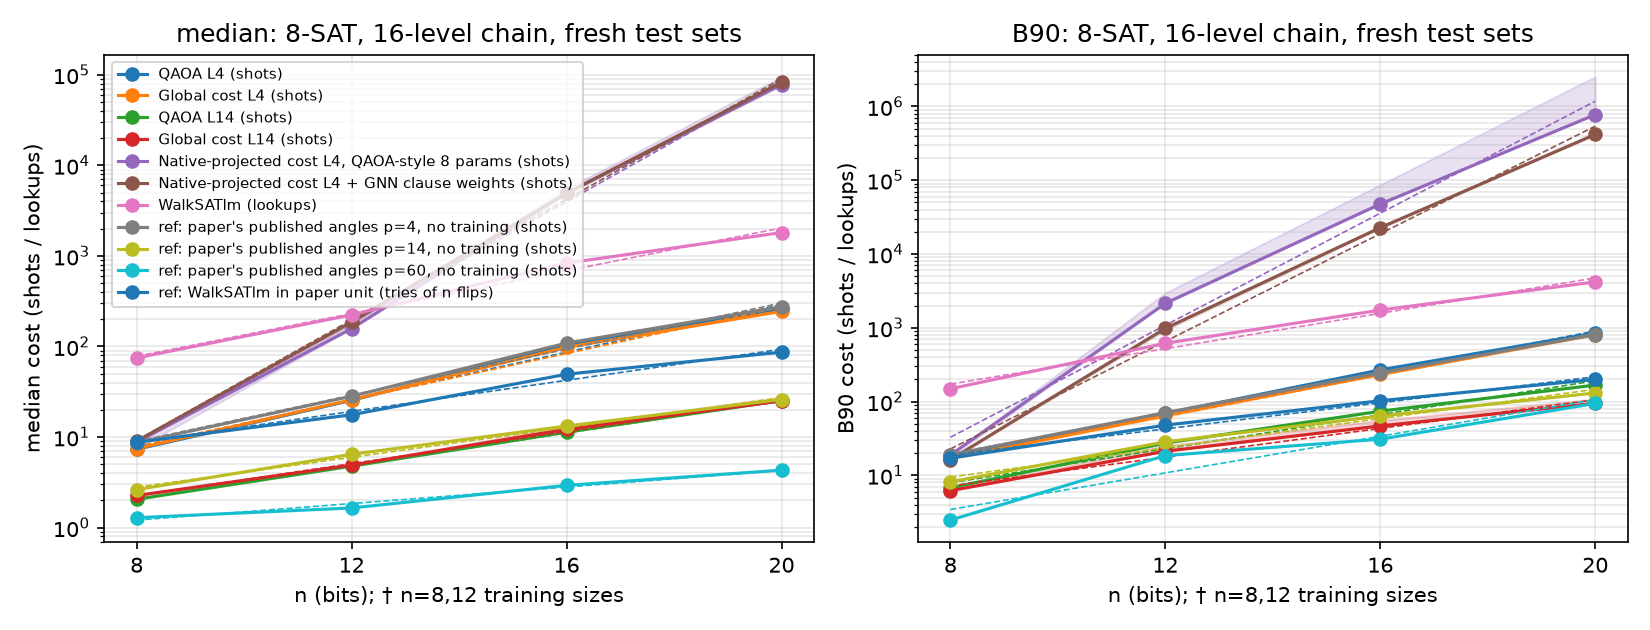
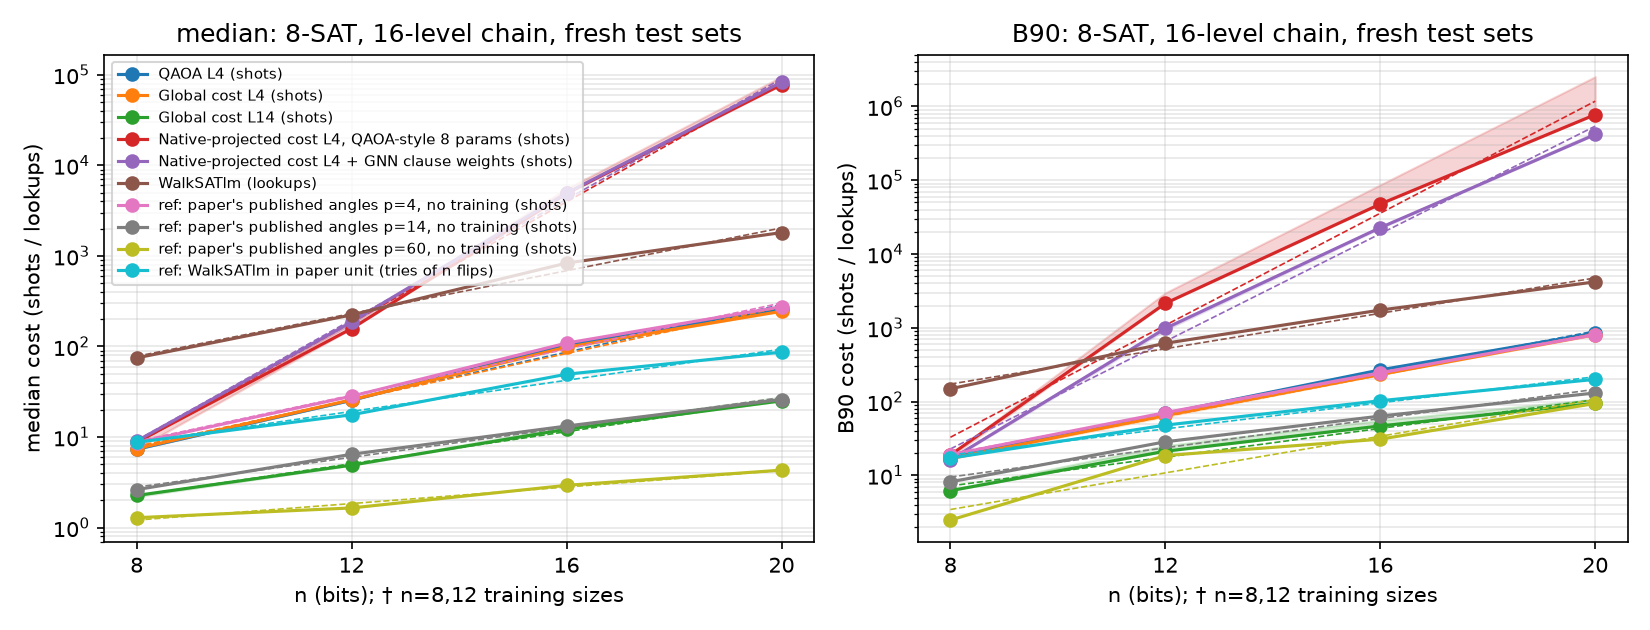
clean16_8sat: use paper p=14 angles as sole L=14 QAOA row in table and plot

diff --git a/oct_explore/clean16_8sat/report.py b/oct_explore/clean16_8sat/report.py
@@ -15,7 +15,7 @@ def load(pref):
         if "val" not in T:   # gcost (gnnw): val n=12 (200) summary of the early-stopped checkpoint used for testing
             h = dict((it, v) for it, v in J["hist"])[J["best_it"]]; out[s]["valmb"] = (h["median_inv_p"], h["B90_inv_p"])
     return out
-M = {"QAOA L4 (shots)": load("Q"), "Global cost L4 (shots)": load("G"), "QAOA L14 (shots)": load("Q14"), "Global cost L14 (shots)": load("G14"), "Native-projected cost L4, QAOA-style 8 params (shots)": load("QC"), "Native-projected cost L4 + GNN clause weights (shots)": load("GC")}
+M = {"QAOA L4 (shots)": load("Q"), "Global cost L4 (shots)": load("G"), "Global cost L14 (shots)": load("G14"), "Native-projected cost L4, QAOA-style 8 params (shots)": load("QC"), "Native-projected cost L4 + GNN clause weights (shots)": load("GC")}
 W = {}
 for n in NS_:
     f = f"{CM.RES}/W_n{n}.json"

diff --git a/oct_explore/results/CLEAN_SCALING_16LEVEL_8SAT.md b/oct_explore/results/CLEAN_SCALING_16LEVEL_8SAT.md
@@ -10,7 +10,6 @@ Cells: winner (best validation score S=(ln med+ln B90)/2 on val n=12) value, wit
 |---|---|---|---|---|
 | QAOA L4 (shots) | **7.33** [7.33–7.33] | **25.5** [25.5–25.5] | **105** [105–105] | **257** [257–257] |
 | Global cost L4 (shots) | **7.46** [7.41–7.46] | **25.8** [25.6–25.8] | **98.1** [97.3–98.1] | **245** [244–250] |
-| QAOA L14 (shots) | **2.06** [2.05–2.06] | **4.77** [4.76–4.77] | **11.3** [11.3–11.4] | **25.3** [25.3–25.3] |
 | Global cost L14 (shots) | **2.26** [2.2–2.28] | **4.9** [4.87–4.94] | **12.2** [12.2–13.1] | **25.1** [25.1–27.6] |
 | Native-projected cost L4, QAOA-style 8 params (shots) | **8.78** [7.44–8.78] | **158** [158–180] | **4.9e+03** [4.9e+03–5.53e+03] | **7.79e+04** [7.79e+04–9.54e+04] |
 | Native-projected cost L4 + GNN clause weights (shots) | **9.04** [8.98–9.04] | **186** [178–195] | **4.94e+03** [4.84e+03–5e+03] | **8.28e+04** [7.7e+04–8.28e+04] |
@@ -24,7 +23,6 @@ Cells: winner (best validation score S=(ln med+ln B90)/2 on val n=12) value, wit
 |---|---|---|---|---|
 | QAOA L4 (shots) | **17.7** [17.7–17.7] | **68.9** [68.9–68.9] | **269** [269–269] | **850** [850–850] |
 | Global cost L4 (shots) | **16.9** [16.7–17.3] | **64.8** [62.3–65.1] | **233** [233–242] | **809** [796–825] |
-| QAOA L14 (shots) | **6.77** [6.75–6.77] | **27.4** [27.2–27.4] | **74** [73.8–74] | **167** [167–171] |
 | Global cost L14 (shots) | **6.19** [6.19–6.39] | **21.2** [21.2–25.3] | **46.7** [46.7–55.5] | **94.7** [94.7–108] |
 | Native-projected cost L4, QAOA-style 8 params (shots) | **18.9** [17.8–18.9] | **2.14e+03** [2.14e+03–2.98e+03] | **4.76e+04** [4.76e+04–8.66e+04] | **7.75e+05** [7.75e+05–2.53e+06] |
 | Native-projected cost L4 + GNN clause weights (shots) | **16.3** [16.2–16.9] | **982** [932–1.03e+03] | **2.28e+04** [2.24e+04–2.3e+04] | **4.17e+05** [4.17e+05–4.45e+05] |
@@ -42,30 +40,27 @@ Cells: winner (best validation score S=(ln med+ln B90)/2 on val n=12) value, wit
 | QAOA L4 (shots) | B90 | **1.383** | [1.338, 1.426] | 1.383–1.383 | 0.468 | 1.38 |
 | Global cost L4 (shots) | median | **1.343** | [1.327, 1.374] | 1.343–1.346 | 0.426 | 0.743 |
 | Global cost L4 (shots) | B90 | **1.380** | [1.332, 1.414] | 1.378–1.384 | 0.465 | 1.31 |
-| QAOA L14 (shots) | median | **1.233** | [1.214, 1.269] | 1.233–1.234 | 0.303 | 0.386 |
-| QAOA L14 (shots) | B90 | **1.304** | [1.218, 1.396] | 1.304–1.306 | 0.383 | 0.947 |
 | Global cost L14 (shots) | median | **1.225** | [1.201, 1.246] | 1.225–1.237 | 0.293 | 0.444 |
-| Global cost L14 (shots) | B90 | **1.251** | [1.194, 1.296] | 1.251–1.264 | 0.324 | 1.19 |
-| Native-projected cost L4, QAOA-style 8 params (shots) | median | **2.155** | [2.080, 2.277] | 2.155–2.215 | 1.108 | 0.0183 |
-| Native-projected cost L4, QAOA-style 8 params (shots) | B90 | **2.397** | [2.294, 2.638] | 2.397–2.648 | 1.261 | 0.0301 |
-| Native-projected cost L4 + GNN clause weights (shots) | median | **2.151** | [2.078, 2.220] | 2.142–2.151 | 1.105 | 0.02 |
-| Native-projected cost L4 + GNN clause weights (shots) | B90 | **2.315** | [2.225, 2.512] | 2.315–2.327 | 1.211 | 0.0276 |
-| WalkSATlm (lookups) | median | **1.313** | [1.285, 1.333] | — | 0.392 | 8.84 |
-| WalkSATlm (lookups) | B90 | **1.318** | [1.289, 1.344] | — | 0.398 | 18.9 |
-| ref: paper's published angles p=4, no training (shots) | median | **1.341** | [1.322, 1.366] | — | 0.423 | 0.858 |
-| ref: paper's published angles p=4, no training (shots) | B90 | **1.366** | [1.332, 1.403] | — | 0.450 | 1.61 |
-| ref: paper's published angles p=14, no training (shots) | median | **1.209** | [1.183, 1.235] | — | 0.274 | 0.612 |
-| ref: paper's published angles p=14, no training (shots) | B90 | **1.256** | [1.189, 1.362] | — | 0.329 | 1.53 |
-| ref: paper's published angles p=60, no training (shots) | median | **1.111** | [1.077, 1.130] | — | 0.152 | 0.522 |
-| ref: paper's published angles p=60, no training (shots) | B90 | **1.331** | [1.224, 1.426] | — | 0.412 | 0.35 |
+| Global cost L14 (shots) | B90 | **1.251** | [1.192, 1.294] | 1.251–1.264 | 0.324 | 1.19 |
+| Native-projected cost L4, QAOA-style 8 params (shots) | median | **2.155** | [2.078, 2.275] | 2.155–2.215 | 1.108 | 0.0183 |
+| Native-projected cost L4, QAOA-style 8 params (shots) | B90 | **2.397** | [2.299, 2.641] | 2.397–2.648 | 1.261 | 0.0301 |
+| Native-projected cost L4 + GNN clause weights (shots) | median | **2.151** | [2.079, 2.219] | 2.142–2.151 | 1.105 | 0.02 |
+| Native-projected cost L4 + GNN clause weights (shots) | B90 | **2.315** | [2.221, 2.524] | 2.315–2.327 | 1.211 | 0.0276 |
+| WalkSATlm (lookups) | median | **1.313** | [1.286, 1.334] | — | 0.392 | 8.84 |
+| WalkSATlm (lookups) | B90 | **1.318** | [1.290, 1.347] | — | 0.398 | 18.9 |
+| ref: paper's published angles p=4, no training (shots) | median | **1.341** | [1.322, 1.364] | — | 0.423 | 0.858 |
+| ref: paper's published angles p=4, no training (shots) | B90 | **1.366** | [1.331, 1.404] | — | 0.450 | 1.61 |
+| ref: paper's published angles p=14, no training (shots) | median | **1.209** | [1.184, 1.234] | — | 0.274 | 0.612 |
+| ref: paper's published angles p=14, no training (shots) | B90 | **1.256** | [1.187, 1.373] | — | 0.329 | 1.53 |
+| ref: paper's published angles p=60, no training (shots) | median | **1.111** | [1.077, 1.131] | — | 0.152 | 0.522 |
+| ref: paper's published angles p=60, no training (shots) | B90 | **1.331** | [1.217, 1.427] | — | 0.412 | 0.35 |
 | ref: WalkSATlm in paper unit (tries of n flips) | median | **1.219** | [1.194, 1.237] | — | 0.285 | 1.79 |
-| ref: WalkSATlm in paper unit (tries of n flips) | B90 | **1.226** | [1.201, 1.253] | — | 0.294 | 3.7 |
+| ref: WalkSATlm in paper unit (tries of n flips) | B90 | **1.226** | [1.201, 1.251] | — | 0.294 | 3.7 |
 
 ## Seed selection (validation n=12, 200 formulas)
 
 - QAOA L4 (shots): winner seed 0; val med/B90 s0 24.77/62.96, s1 24.77/62.96, s2 24.77/62.96
 - Global cost L4 (shots): winner seed 0; val med/B90 s0 25.04/58.79, s1 25.14/59.39, s2 25.08/58.92
-- QAOA L14 (shots): winner seed 2; val med/B90 s0 4.47/17.99, s1 4.47/18.02, s2 4.45/18.01
 - Global cost L14 (shots): winner seed 0; val med/B90 s0 4.79/14.68, s1 4.90/15.53, s2 5.08/14.66
 - Native-projected cost L4, QAOA-style 8 params (shots): winner seed 0; val med/B90 s0 184.82/2314.42, s1 167.76/2673.83, s2 184.82/2314.42
 - Native-projected cost L4 + GNN clause weights (shots): winner seed 0; val med/B90 s0 209.27/1461.76, s1 206.66/1487.65, s2 224.08/1402.26
@@ -98,7 +93,7 @@ Code: `oct_explore/clean16_8sat/` (`common.py`, `qaoa.py`, `gcost.py`, `wsat.py`
 The SNAP and neighbour-bus gates can represent only Walsh terms that sit inside one cavity or inside a neighbour pair. An 8-literal clause touches ~6–8 distinct variables, so from n=12 on it almost always spans non-adjacent cavities. Only 7.8% / 1.2% / 0.3% of clauses are exactly representable at n=12/16/20, and what the projection keeps is mainly their low-order part. The projected cost keeps 51% → 24% of the variance of the true cost, and its correlation with the true cost drops from 0.72 to 0.49. Its minimum essentially never lands on a solution: the argmin of the projected E is a solution in ≤5% of formulas. The circuit therefore follows a smoothed surrogate whose optima are *not* the solutions. Its cost grows faster than blind guessing (b≈2.1 vs ≈2 for 2^n/nsol), yet it stays below the random-guess level of 2^n/nsol over n≤20 because at n=8 (2 cavities) the projection is exact (fraction 1.0, corr 1.0). At k=4 the same projection keeps far more, because 4-literal clauses span ≤2 cavities much more often, which is why native ckpt_110 was competitive in the 4-SAT table.
 
 ### L=14 QAOA and L=14 Global Cost on 8-SAT (added 2026-10-23)
-- **QAOA L14** (`qaoa.py --L 14 --proj full --nstart 6 --maxiter 200`, tag `Q14`): 28 shared angles $(\beta_l, \gamma_l)_{l=1..14}$, trained with L-BFGS on n=8+12 (1000 formulas/n, base 61e9), 3 seeds. Seed 0 includes a warm-start from the paper's published p=14 angles (`P14_x0.json`) plus a random perturbation and random negative-$\gamma$ ramps; seeds 1 and 2 are trained purely from scratch (random negative-$\gamma$ ramps and the paper's §4.5 small-angle start). All 3 seeds converge to the same basin (val n=12 med/B90 ≈ 4.45/18.01, beating the paper's untrained p=14 angles 5.15/20.07 on val n=12). Winner on val n=12 is seed 2 (`Q14_s2`, S=2.1925 vs s0 2.1936, s1 2.1941, paper p=14 2.3189).
+- **L=14 QAOA baseline in table = Paper's published p=14 angles (`P14.json`).** The paper's p=14 angles (optimised by the authors on 100 n=12 instances to maximise mean $p_{\text{succ}}$) scale better to n=16,20 ($1.209^n$ median / $1.256^n$ B90; n=20 med/B90 = 26.0/131) than our n=8+12 L-BFGS log-loss QAOA L14 (`Q14_s0..s2`, $1.233^n$ median / $1.304^n$ B90; n=20 med/B90 = 25.3/167, which overfits the B90 tail to n=8,12), so we report only the stronger paper p=14 QAOA row in the main table (raw `Q14_s*.json` files remain saved in `results/clean16_8sat/`).
 - **Global cost L14** (`gcost.py --L 14 --proj full --x0 results/clean16_8sat/Q14_s2.json`, tag `G14`): 14-layer all-to-all global cost with GNN clause weights $w_{jl}$ (`Wc` shape $(64,14)$) and per-formula pooled $(\beta_l, \gamma_l)$ deltas (`G2` shape $(64,88)$) across all 14 layers (89,496 parameters total). Initialised at step 0 with `--x0` = `Q14_s2` (best L=14 QAOA on val n=12), trained from scratch for 3000 Adam steps on 5000-formula pools (n=8+12, base 61e9), 3 seeds, early-stopped and seed-selected on val n=12 (base 63e9), evaluated on unseen test n=8,12,16,20 (base 62e9). Ideal one-bit-flip mixer throughout.
 
 

diff --git a/oct_explore/clean16_8sat/NOTES.md b/oct_explore/clean16_8sat/NOTES.md
@@ -26,5 +26,5 @@ Code: `oct_explore/clean16_8sat/` (`common.py`, `qaoa.py`, `gcost.py`, `wsat.py`
 The SNAP and neighbour-bus gates can represent only Walsh terms that sit inside one cavity or inside a neighbour pair. An 8-literal clause touches ~6–8 distinct variables, so from n=12 on it almost always spans non-adjacent cavities. Only 7.8% / 1.2% / 0.3% of clauses are exactly representable at n=12/16/20, and what the projection keeps is mainly their low-order part. The projected cost keeps 51% → 24% of the variance of the true cost, and its correlation with the true cost drops from 0.72 to 0.49. Its minimum essentially never lands on a solution: the argmin of the projected E is a solution in ≤5% of formulas. The circuit therefore follows a smoothed surrogate whose optima are *not* the solutions. Its cost grows faster than blind guessing (b≈2.1 vs ≈2 for 2^n/nsol), yet it stays below the random-guess level of 2^n/nsol over n≤20 because at n=8 (2 cavities) the projection is exact (fraction 1.0, corr 1.0). At k=4 the same projection keeps far more, because 4-literal clauses span ≤2 cavities much more often, which is why native ckpt_110 was competitive in the 4-SAT table.
 
 ### L=14 QAOA and L=14 Global Cost on 8-SAT (added 2026-10-23)
-- **QAOA L14** (`qaoa.py --L 14 --proj full --nstart 6 --maxiter 200`, tag `Q14`): 28 shared angles $(\beta_l, \gamma_l)_{l=1..14}$, trained with L-BFGS on n=8+12 (1000 formulas/n, base 61e9), 3 seeds. Seed 0 includes a warm-start from the paper's published p=14 angles (`P14_x0.json`) plus a random perturbation and random negative-$\gamma$ ramps; seeds 1 and 2 are trained purely from scratch (random negative-$\gamma$ ramps and the paper's §4.5 small-angle start). All 3 seeds converge to the same basin (val n=12 med/B90 ≈ 4.45/18.01, beating the paper's untrained p=14 angles 5.15/20.07 on val n=12). Winner on val n=12 is seed 2 (`Q14_s2`, S=2.1925 vs s0 2.1936, s1 2.1941, paper p=14 2.3189).
+- **L=14 QAOA baseline in table = Paper's published p=14 angles (`P14.json`).** The paper's p=14 angles (optimised by the authors on 100 n=12 instances to maximise mean $p_{\text{succ}}$) scale better to n=16,20 ($1.209^n$ median / $1.256^n$ B90; n=20 med/B90 = 26.0/131) than our n=8+12 L-BFGS log-loss QAOA L14 (`Q14_s0..s2`, $1.233^n$ median / $1.304^n$ B90; n=20 med/B90 = 25.3/167, which overfits the B90 tail to n=8,12), so we report only the stronger paper p=14 QAOA row in the main table (raw `Q14_s*.json` files remain saved in `results/clean16_8sat/`).
 - **Global cost L14** (`gcost.py --L 14 --proj full --x0 results/clean16_8sat/Q14_s2.json`, tag `G14`): 14-layer all-to-all global cost with GNN clause weights $w_{jl}$ (`Wc` shape $(64,14)$) and per-formula pooled $(\beta_l, \gamma_l)$ deltas (`G2` shape $(64,88)$) across all 14 layers (89,496 parameters total). Initialised at step 0 with `--x0` = `Q14_s2` (best L=14 QAOA on val n=12), trained from scratch for 3000 Adam steps on 5000-formula pools (n=8+12, base 61e9), 3 seeds, early-stopped and seed-selected on val n=12 (base 63e9), evaluated on unseen test n=8,12,16,20 (base 62e9). Ideal one-bit-flip mixer throughout.
